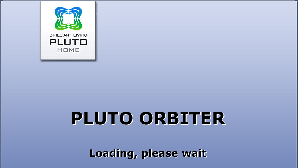
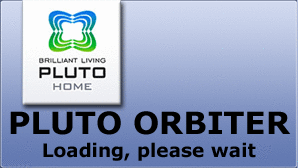
Changed error image for cisco phone, changed media directors page to update the room of the core for hybrids

diff --git a/web/pluto-admin/operations/myDevices/mediaDirectors.php b/web/pluto-admin/operations/myDevices/mediaDirectors.php
@@ -416,7 +416,8 @@ function mediaDirectors($output,$dbADO) {
 							
 					$room=(@$_POST['room_'.$value]!=0)?(int)@$_POST['room_'.$value]:NULL;
 					$controlledBy=(@$_POST['controlledBy_'.$value]!=0)?(int)@$_POST['controlledBy_'.$value]:NULL;
-
+					$dbADO->Execute('UPDATE Device Dparent JOIN Device Dchild ON Dchild.FK_Device_ControlledVia=Dparent.PK_Device SET Dparent.FK_Room=? WHERE Dchild.PK_Device=?',array($room,$value));
+					
 					if(isset($_POST['controlledBy_'.$value])){
 						$updateDevice='UPDATE Device SET Description=?, FK_Room=?, FK_Device_ControlledVia=? '.@$updateMacIp.' WHERE PK_Device=?';
 						$dbADO->Execute($updateDevice,array($description,$room,$controlledBy,$value));
